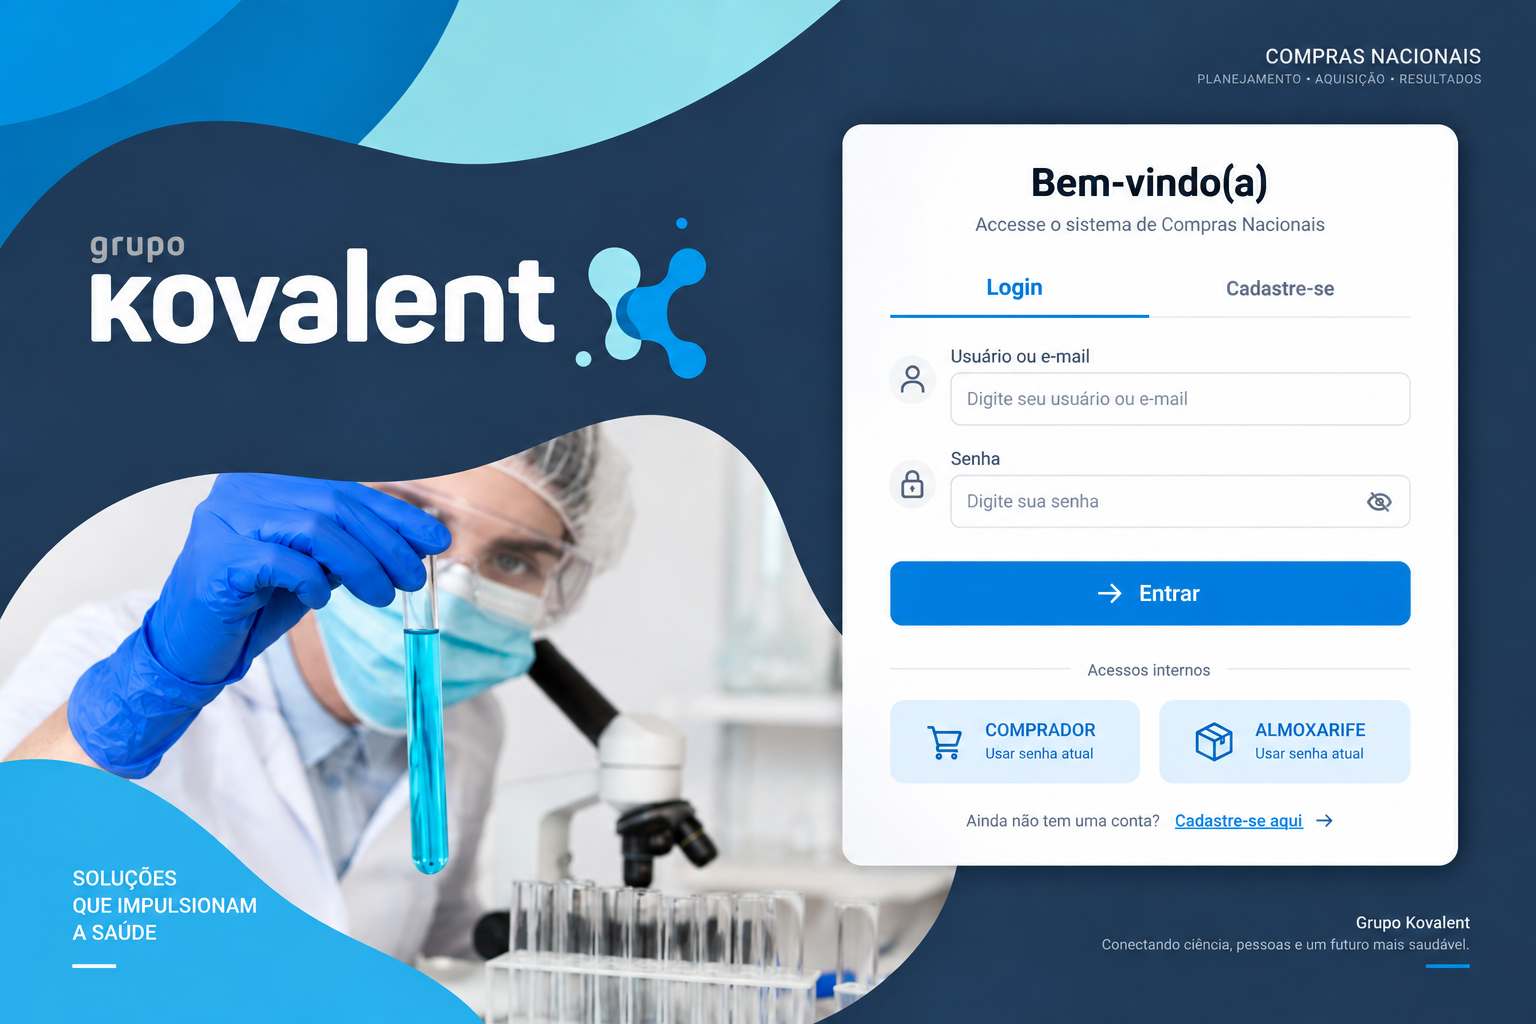
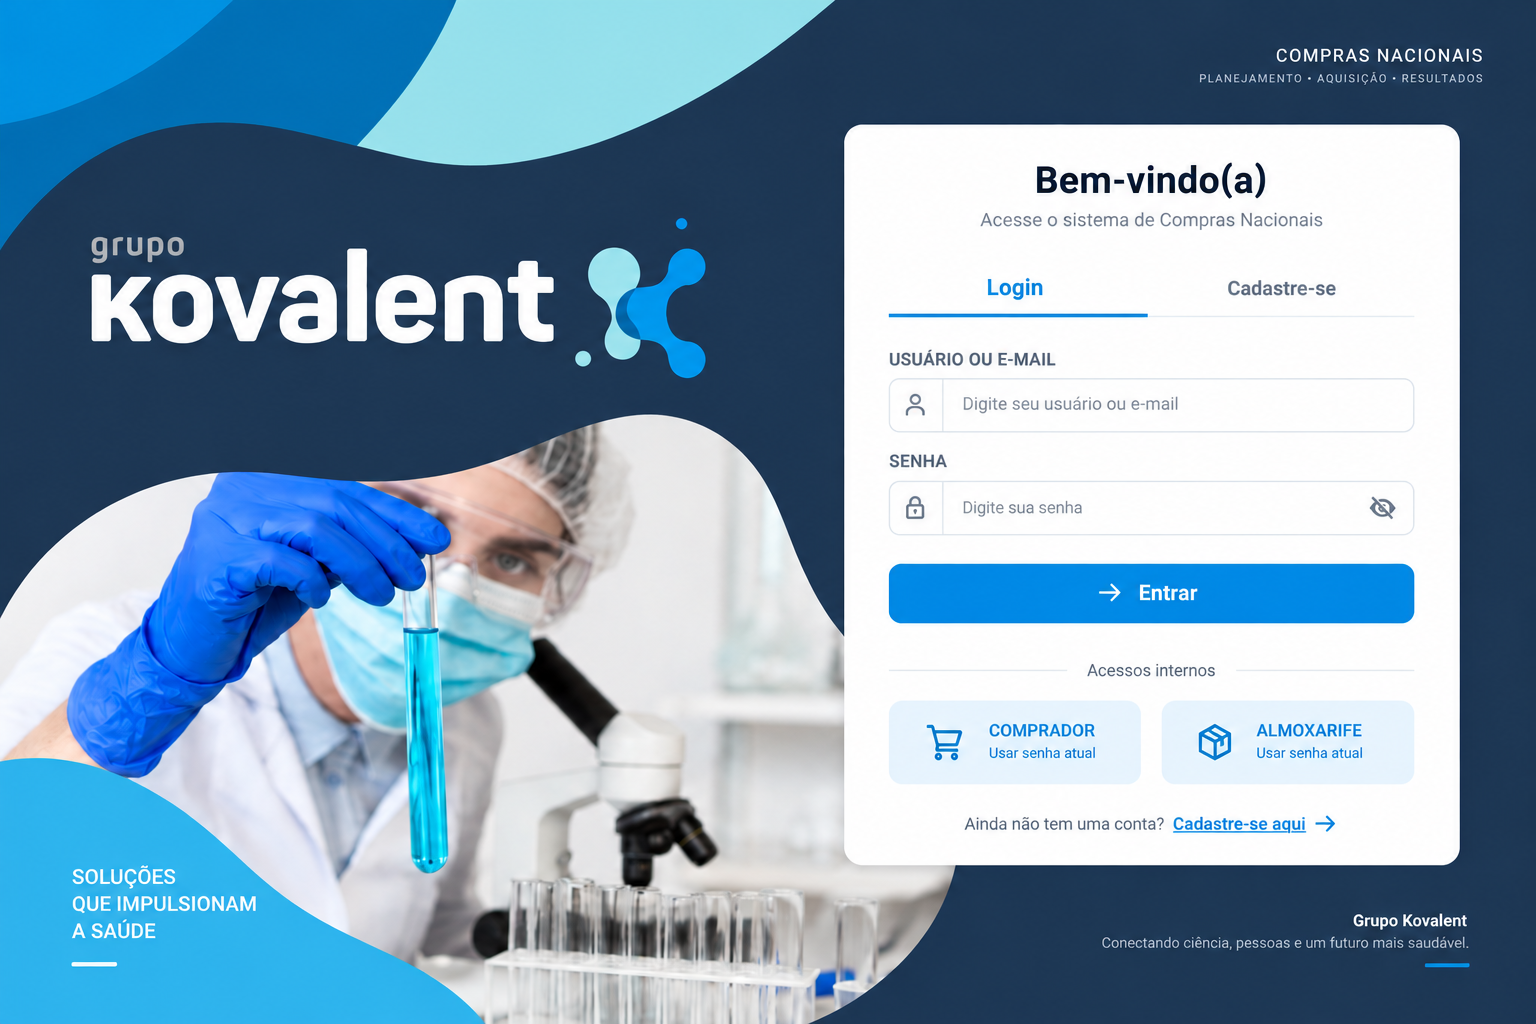
v1.2.2 - Correção visual da tela de login

diff --git a/index.html b/index.html
@@ -11,7 +11,7 @@
 <body class="auth-locked">
 
 
-<!-- ===================== LOGIN INICIAL v1.2.1 ===================== -->
+<!-- ===================== LOGIN INICIAL v1.2.2 ===================== -->
 <div id="auth-gate" class="auth-gate">
   <section class="auth-visual" aria-hidden="true">
     <div class="auth-visual-badge">

diff --git a/README.md b/README.md
@@ -1,4 +1,4 @@
-# Kovalent Compras Nacionais — v1.2.1
+# Kovalent Compras Nacionais — v1.2.2
 
 Atualização visual da tela inicial de Login/Cadastro com identidade Kovalent.
 
@@ -7,4 +7,4 @@ Atualização visual da tela inicial de Login/Cadastro com identidade Kovalent.
 - Login e autocadastro continuam funcionais.
 - Acessos COMPRADOR e ALMOXARIFE mantêm as senhas atuais.
 - Cadastro de solicitante mantém seleção de setor.
-- Cache bust atualizado para v1.2.1.
+- Cache bust atualizado para v1.2.2.
